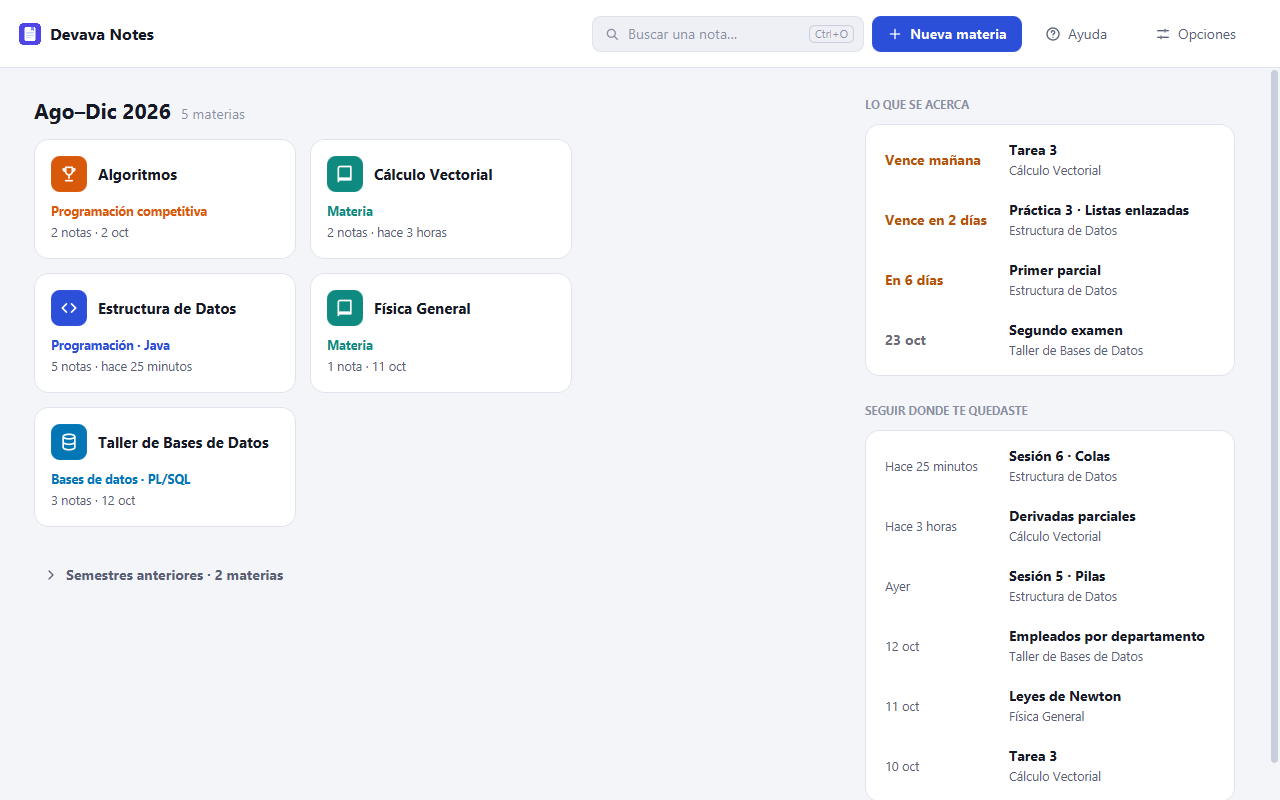
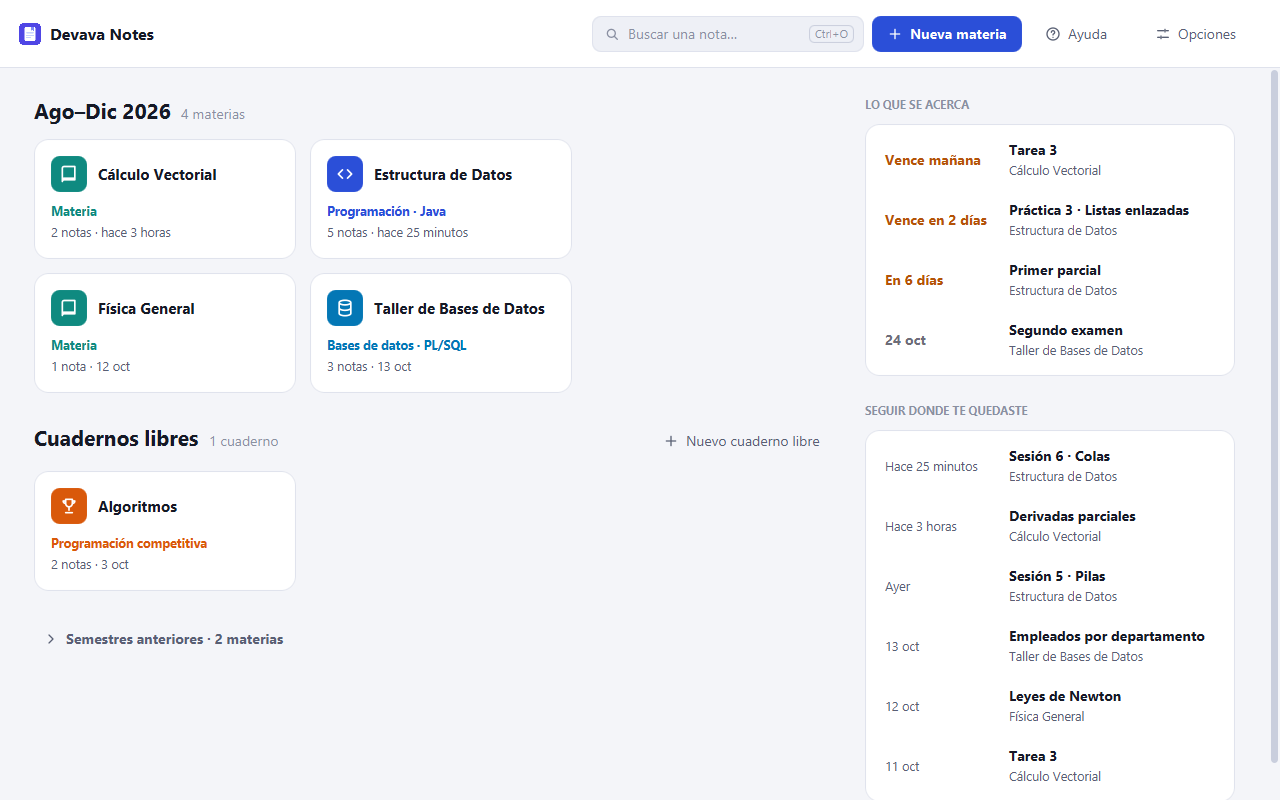
Devava Notes 2.1.0: the changelog, the README and its screenshots
- The 2.1.0 section of the changelog: tables, drawings, free notebooks apart from the subjects,
  and the cursor where a note is clicked.
- The README: tables and drawings in Escribir, the free notebooks in Tipos de cuaderno, the
  shortcuts of a table, the drawings' files, and new screenshots of Home, a table of Taller de
  Bases de Datos and a drawing (taken by the smoke tests).
- Version 2.1.0.

diff --git a/src/test/java/com/devavaxp/notes/AppSmokeTest.java b/src/test/java/com/devavaxp/notes/AppSmokeTest.java
@@ -135,6 +135,14 @@ class AppSmokeTest {
                 @Override String sonido() { return "¡Guau!"; }
             }""";
 
+    private static final String COLUMNS = """
+            | Columna | Tipo | Restricciones |
+            | --- | --- | --- |
+            | employee_id | NUMBER(6) | PRIMARY KEY |
+            | first_name | VARCHAR2(20) |  |
+            | hire_date | DATE | DEFAULT SYSDATE NOT NULL |
+            | department_id | NUMBER(4) | REFERENCES departments |""";
+
     private static final String CREATE = """
             CREATE TABLE employees (
               employee_id   NUMBER(6) PRIMARY KEY,
@@ -764,7 +772,8 @@ class AppSmokeTest {
         Files.writeString(exercise, "---\nkind: exercise\ntopics: [consultas/joins, consultas/group by]\nlevel: Medium\nstatus: Solved\ndate: "
                 + today + "\n---\n## Enunciado\n\n¿Cuántos empleados trabajan en cada departamento, incluidos los que no tienen ninguno?\n\n"
                 + "## Consulta\n\n```plsql\n" + QUERY + "\n```\n");
-        Files.writeString(db.resolve("EMPLOYEES.md"), "---\nkind: table\n---\n## Creación\n\n```plsql\n" + CREATE + "\n```\n");
+        Path employees = db.resolve("EMPLOYEES.md");
+        Files.writeString(employees, "---\nkind: table\n---\n## Columnas\n\n" + COLUMNS + "\n\n## Creación\n\n```plsql\n" + CREATE + "\n```\n");
         Files.writeString(db.resolve("Segundo examen.md"), "---\nkind: exam\ndate: " + today.plusDays(9) + "\ntopics: [plsql/cursores]\n---\n");
         Path partial = calculus.resolve("Derivadas parciales.md");
         Files.writeString(partial, PARTIAL.formatted(today.minusDays(1)));
@@ -800,6 +809,13 @@ class AppSmokeTest {
         dialogShot(stage, "r1-change-type", () -> menuItem(stage, "Cambiar tipo…").fire(), "");
         dialogShot(stage, "r2-language", () -> menuItem(stage, "Lenguaje del código…").fire(), "");
         dialogShot(stage, "r3-period", () -> menuItem(stage, "Cambiar periodo…").fire(), "");
+        fx(() -> run(() -> {
+            app.openNotebook(db);
+            app.browser.choose("Tablas", null);
+            app.openNote(employees);
+        }));
+        waitFor("the table's grid", () -> fx(() -> ((Number) engine.executeScript("document.querySelectorAll('.cm-table tbody tr').length")).intValue() == 5));
+        shot(stage, "readme-tabla");
         fx(() -> run(() -> {
             app.setDark(true);
             app.openNotebook(db);
@@ -1009,11 +1025,11 @@ class AppSmokeTest {
         shot(drawing.stage, "x1-drawing-new");
         fx(() -> draw.executeScript("""
                 drawingAPI.updateScene({elements: drawingElements([
-                    {type: 'rectangle', x: 80, y: 80, width: 220, height: 110, label: {text: 'Pila'}},
-                    {type: 'arrow', x: 310, y: 135, width: 160, height: 0},
-                    {type: 'ellipse', x: 480, y: 80, width: 200, height: 110, label: {text: 'Cola'}}]), captureUpdate: 'IMMEDIATELY'})"""));
+                    {type: 'rectangle', x: 80, y: 190, width: 220, height: 110, label: {text: 'Pila'}},
+                    {type: 'arrow', x: 310, y: 245, width: 160, height: 0},
+                    {type: 'ellipse', x: 480, y: 190, width: 200, height: 110, label: {text: 'Cola'}}]), captureUpdate: 'IMMEDIATELY'})"""));
         Thread.sleep(600);
-        shot(drawing.stage, "x2-drawing");
+        shot(drawing.stage, "readme-dibujo");
         String count = "drawingAPI.getSceneElements().length", images = "drawingAPI.getSceneElements().filter(e => e.type === 'image').length";
         int drawn = ((Number) fx(() -> draw.executeScript(count))).intValue();
 
@@ -1119,7 +1135,7 @@ class AppSmokeTest {
         key(again.view, KeyCode.DELETE);   // with no click first
         assertEquals(0, ((Number) fx(() -> redraw.executeScript(images))).intValue(), "the pictures deleted with Supr");
         fx(() -> redraw.executeScript("drawingAPI.updateScene({elements: [...drawingAPI.getSceneElements(), "
-                + "...drawingElements([{type: 'text', x: 80, y: 230, text: 'LIFO y FIFO'}, {type: 'text', x: 80, y: 280, text: '¿Último en entrar?', fontFamily: 3}])]})"));
+                + "...drawingElements([{type: 'text', x: 80, y: 340, text: 'LIFO y FIFO'}, {type: 'text', x: 80, y: 390, text: '¿Último en entrar?', fontFamily: 3}])]})"));
         assertEquals(Boolean.TRUE, fx(() -> redraw.executeScript("""
                 drawingAPI.getSceneElements().filter(e => e.type === 'text' && !e.containerId).every(e => {
                     const c = document.createElement('canvas').getContext('2d');

diff --git a/README.md b/README.md
@@ -12,8 +12,9 @@ Cada materia del semestre tiene su cuaderno, que sabe lo que lleva: tus **apunte
 las **tareas y prácticas** con su fecha de entrega, los **exámenes**, y en las materias de
 programación, **sesiones de código** con el código y lo que imprimió. Las materias salen de la
 retícula de ISC: escribes «estruc» y la app propone *Estructura de Datos*, de Programación y en
-Java. Toda la app está en español, y tus notas son archivos de texto en tu computadora: sin
-cuentas, sin nube y sin instalar Java.
+Java. Tus notas llevan **tablas** que se escriben como en Excel y **dibujos** hechos sin salir
+de la app. Toda la app está en español, y tus notas son archivos de texto en tu computadora:
+sin cuentas, sin nube y sin instalar Java.
 
 | Inicio | Una sesión de código |
 | --- | --- |
@@ -26,6 +27,10 @@ cuentas, sin nube y sin instalar Java.
 | Una materia, en vista previa | Bases de datos, en tema oscuro |
 | --- | --- |
 | ![Apuntes de Cálculo Vectorial con sus fórmulas](docs/screenshots/materia.png) | ![Un ejercicio de Taller de Bases de Datos con su consulta en PL/SQL](docs/screenshots/bases-de-datos-oscuro.png) |
+
+| Una tabla, escrita en sus celdas | Un dibujo |
+| --- | --- |
+| ![Las columnas de la tabla EMPLOYEES de Taller de Bases de Datos, como cuadrícula](docs/screenshots/tabla.png) | ![Una pila y una cola dibujadas en Excalidraw, dentro de la app](docs/screenshots/dibujo.png) |
 
 ## Descarga
 
@@ -46,7 +51,7 @@ Las versiones para macOS y Linux vienen después.
    agrega más con **Nueva materia**.
 2. **Escribe.** **Nueva nota** (`Ctrl+N`) ofrece lo que lleva cada materia: un apunte, una
    sesión de código, una tarea o un examen. La barra sobre la nota pone negritas, listas,
-   fórmulas, imágenes y bloques de código con un clic.
+   tablas, fórmulas, imágenes, dibujos y bloques de código con un clic.
 3. **Llena sus datos** arriba del texto (la entrega de una tarea, los temas de un examen):
    Inicio te dice lo que se acerca, y lo atrasado sale en rojo.
 
@@ -67,7 +72,7 @@ información → Ejecutar de todas formas** la abre, y Windows lo recuerda. GitH
 compila cada versión desde el código de su etiqueta, así que el registro de la compilación
 muestra exactamente qué lleva cada archivo, y cada versión publica sus sumas SHA-256.
 
-## Tipos de materia
+## Tipos de cuaderno
 
 Cada tipo trae sus datos (arriba de la nota), sus plantillas para las notas nuevas y sus vistas
 (a la izquierda). Cada vista muestra sus notas como lista o como tabla, con columnas para
@@ -95,8 +100,10 @@ ordenar.
   fijadas.
 
 En Inicio, las materias se agrupan por periodo escolar (*Ene–Jun*, *Verano*, *Ago–Dic*) y los
-semestres anteriores quedan plegados; *Cambiar periodo…* mueve una materia a otro. **Lo que se
-acerca** junta las entregas y los exámenes de todas tus materias.
+semestres anteriores quedan plegados; *Cambiar periodo…* mueve una materia a otro. Libre y
+Programación competitiva son **cuadernos libres**: no tienen semestre, van en su propia sección
+y se crean con **Nuevo cuaderno libre**. **Lo que se acerca** junta las entregas y los exámenes
+de todas tus materias.
 
 ## Escribir
 
@@ -108,6 +115,15 @@ Las notas son Markdown, pero no hace falta saberlo: la barra sobre la nota lo es
   con colores y con números de línea. Un bloque de **Salida** guarda lo que imprimió el
   programa, y **+ Bloque de código** agrega otro en el lenguaje de la materia. Quien sabe
   Markdown puede escribir ```` ```java ```` y Enter.
+- **Tablas** como cuadrícula: se escribe en sus celdas, **Tab** pasa a la siguiente y **Enter**
+  a la de abajo (al final agrega una fila). Créala con **Tabla** en la barra (eliges columnas y
+  filas), pegando celdas de Excel, Google Sheets o SQL Developer, o escribiendo su encabezado
+  (`| Nombre | Edad |`) y Enter. Arriba de cada una: **+ Fila**, **+ Columna**, **⋯** para
+  quitar o alinear, **Copiar** (se pega con sus celdas en Word, Excel o Google Docs) y
+  **Quitar**.
+- **Dibujos** con Excalidraw, sin salir de la app: **Dibujo** en la barra abre una ventana para
+  dibujar diagramas y esquemas, con imágenes y capturas para dibujar encima, Mermaid y una
+  biblioteca de figuras. Un clic en el dibujo lo vuelve a abrir.
 - **Fórmulas**: `$e^{i\pi} + 1 = 0$` en el texto, o en su propia línea entre `$$`, dibujadas
   por KaTeX.
 - **Enlaces** entre notas: escribe `[[` y elige su título. `Ctrl+clic` sigue un enlace al
@@ -118,7 +134,7 @@ Las notas son Markdown, pero no hace falta saberlo: la barra sobre la nota lo es
   archivo a la nota; se guarda en la carpeta `attachments` de la materia.
 - **Temas sugeridos**: en las materias de la retícula, el menú ▾ de *Temas* propone los de la
   materia (herencia y polimorfismo en POO, pilas y colas en Estructura de Datos…).
-- Tablas, listas de pendientes (`- [ ]`) y tachado, como en GitHub.
+- Listas de pendientes (`- [ ]`) y tachado, como en GitHub.
 
 ## Atajos de teclado
 
@@ -130,7 +146,8 @@ Las notas son Markdown, pero no hace falta saberlo: la barra sobre la nota lo es
 | `Ctrl+E` | Pasar entre Editar y Vista previa |
 | `Ctrl+F` | Buscar y reemplazar en la nota |
 | `Ctrl+B`, `Ctrl+I` | Negrita, cursiva |
-| `Ctrl+V` | Pegar texto, o una imagen |
+| `Ctrl+V` | Pegar texto, una imagen, o celdas de Excel como tabla |
+| `Tab`, `Enter` | En una tabla: la celda siguiente, la de abajo |
 | `[[` | Enlazar otra nota, con sus títulos sugeridos |
 | `Ctrl+clic` | Seguir el `[[enlace]]` bajo el ratón, al escribir |
 | `Ctrl+Z` / `Ctrl+Y` | Deshacer / rehacer |
@@ -138,16 +155,21 @@ Las notas son Markdown, pero no hace falta saberlo: la barra sobre la nota lo es
 ## Dónde quedan tus notas
 
 Todo queda en una carpeta `Devava Notes` dentro de tu carpeta Documentos (también si OneDrive
-la sincroniza). Cada materia es una carpeta, y cada nota un archivo `.md` con su título:
+la sincroniza). Cada materia o cuaderno es una carpeta, y cada nota un archivo `.md` con su
+título:
 
 ```
 Documentos\Devava Notes\
-├── settings.json                 el tema
+├── settings.json                        el tema
+├── Biblioteca de dibujos.excalidrawlib  las figuras que guardas para tus dibujos
 └── Estructura de Datos\
-    ├── .notebook.json            su tipo, su lenguaje, su periodo y su materia en la retícula
-    ├── attachments\              las imágenes de sus notas
+    ├── .notebook.json                   su tipo, su lenguaje, su periodo y su materia en la retícula
+    ├── attachments\                     las imágenes y los dibujos de sus notas
     └── Sesión 5 · Pilas.md
 ```
+
+Un dibujo es un PNG (`Dibujo ….excalidraw.png`) que lleva adentro lo dibujado: cualquier visor
+de imágenes lo abre, y la app lo vuelve a abrir para seguir dibujando.
 
 Los datos de una nota son su encabezado YAML, así que los archivos se abren en cualquier editor
 de Markdown (Obsidian incluido), y las notas escritas en otro lado aparecen en la app. Sus
@@ -171,10 +193,10 @@ Deque<Character> pila = new ArrayDeque<>();
 - Cada cambio se guarda solo, un momento después, y cada archivo se escribe completo o no se
   escribe: un apagón nunca deja media nota.
 - Borrar una nota o una materia la manda a la Papelera de reciclaje.
-- Las carpetas que crees a mano son materias de tipo Libre.
+- Las carpetas que crees a mano son cuadernos libres.
 - **Para compartir una materia** (tus apuntes con tus compañeros, por ejemplo): en su menú,
-  *Exportar como ZIP…*. Quien recibe el ZIP la agrega con *Opciones → Importar una materia
-  (ZIP)…* en Inicio, y se abre tal como estaba, con su tipo y sus imágenes.
+  *Exportar como ZIP…*. Quien recibe el ZIP la agrega con *Opciones → Importar un cuaderno
+  (ZIP)…* en Inicio, y se abre tal como estaba, con su tipo, sus imágenes y sus dibujos.
 - Para guardar las notas en otro lugar, abre la app con `-Dnotes.home=<carpeta>` (desde el
   código) o define la variable de entorno `JAVA_TOOL_OPTIONS=-Dnotes.home=<carpeta>` (la app
   instalada).
@@ -185,7 +207,7 @@ Deque<Character> pila = new ArrayDeque<>();
 
 Java 21, JavaFX 21 (con WebView), Maven (con su wrapper), Gson y commonmark-java. El editor es
 CodeMirror 6, con KaTeX para las fórmulas, empaquetado por esbuild en un solo script que carga
-el WebView. Las pruebas usan JUnit 5; el compilador corre con `-Xlint:all` y la compilación
+el WebView; la ventana de dibujo es Excalidraw (con React), empaquetado aparte en `draw.js`. Las pruebas usan JUnit 5; el compilador corre con `-Xlint:all` y la compilación
 debe quedar sin advertencias. El código y sus comentarios están en inglés; lo que ve el
 estudiante, en español.
 
@@ -195,9 +217,10 @@ estudiante, en español.
 ./mvnw verify -Dsmoke=true         # también abre la ventana real y guarda capturas en target/smoke
 ```
 
-El código del editor está en [`editor/main.js`](editor/main.js). Después de cambiarlo, vuelve a
-empaquetarlo (con Node.js 20 o más nuevo) y sube el resultado,
-`src/main/resources/com/devavaxp/notes/editor.js`:
+El código del editor está en [`editor/main.js`](editor/main.js), y el de la ventana de dibujo en
+[`editor/draw.js`](editor/draw.js). Después de cambiarlos, vuelve a empaquetarlos (con Node.js
+20 o más nuevo) y sube el resultado, `editor.js`, `draw.js`, `draw.css` y las fuentes de
+`src/main/resources/com/devavaxp/notes/`:
 
 ```bash
 cd editor
@@ -232,16 +255,16 @@ español, que necesita el [WiX Toolset 3.x](https://github.com/wixtoolset/wix3/r
 
 GitHub Actions compila, prueba y publica cada versión
 ([`.github/workflows/release.yml`](.github/workflows/release.yml)), así que cada descarga sale
-de una compilación limpia de un commit etiquetado. Para publicar, por ejemplo, la versión 2.1.0:
+de una compilación limpia de un commit etiquetado. Para publicar, por ejemplo, la versión 2.2.0:
 
-1. Pon `<version>2.1.0</version>` en `pom.xml`.
-2. Agrega una sección `## [2.1.0] - <fecha>` a [`CHANGELOG.md`](CHANGELOG.md) (es el «Qué hay
+1. Pon `<version>2.2.0</version>` en `pom.xml`.
+2. Agrega una sección `## [2.2.0] - <fecha>` a [`CHANGELOG.md`](CHANGELOG.md) (es el «Qué hay
    de nuevo» de la versión) y su enlace al final del archivo.
 3. Sube los cambios, y luego la etiqueta:
 
    ```bash
-   git tag v2.1.0
-   git push origin v2.1.0
+   git tag v2.2.0
+   git push origin v2.2.0
    ```
 
 Correr el workflow a mano desde la pestaña *Actions* es un ensayo: compila y prueba todo y
@@ -249,6 +272,7 @@ guarda los archivos como artefactos, sin publicar nada.
 
 ## Licencia
 
-[MIT](LICENSE) © 2026 devava XP Studios. La app incluye CodeMirror y KaTeX (MIT),
-commonmark-java (BSD-2-Clause), Gson (Apache-2.0) y un runtime de Java con JavaFX (GPL-2.0 con
-la Classpath Exception); ver [THIRD-PARTY-NOTICES.md](THIRD-PARTY-NOTICES.md).
+[MIT](LICENSE) © 2026 devava XP Studios. La app incluye CodeMirror, KaTeX, Excalidraw, React y
+Mermaid (MIT) con sus librerías, las fuentes de Excalidraw (SIL OFL 1.1), commonmark-java
+(BSD-2-Clause), Gson (Apache-2.0) y un runtime de Java con JavaFX (GPL-2.0 con la Classpath
+Exception); ver [THIRD-PARTY-NOTICES.md](THIRD-PARTY-NOTICES.md).

diff --git a/CHANGELOG.md b/CHANGELOG.md
@@ -5,6 +5,49 @@ Aquí están los cambios importantes de cada versión de Devava Notes. El format
 [versionado semántico](https://semver.org/lang/es/). Cada versión en GitHub toma su «Qué hay de
 nuevo» de la sección que le toca en este archivo.
 
+## [2.1.0] - 2026-10-15
+
+Tablas que se escriben en sus celdas, dibujos dentro de la app, y los cuadernos libres aparte de
+las materias.
+
+### Agregado
+- **Tablas** que se ven y se escriben como cuadrícula, igual que una hoja de cálculo: **Tab**
+  pasa a la celda siguiente, **Enter** a la de abajo (al final agrega una fila, y en una fila
+  nueva vacía sale de la tabla), y las flechas van de celda en celda y entran o salen de la
+  tabla. Arriba de cada una, **+ Fila**, **+ Columna**, un menú **⋯** para quitar una fila o
+  una columna o alinearla, **Copiar** (se pega con sus celdas en Word, Excel o Google Docs) y
+  **Quitar**. La nota guarda una tabla de Markdown normal, que otros programas leen.
+- Tres maneras de **crear una tabla**: **Tabla** en la barra de formato, con cuadros como en
+  Word para elegir columnas y filas; pegar celdas de Excel, Google Sheets, SQL Developer o una
+  página (`Ctrl+Z` deja lo pegado como texto); o escribir el encabezado, como
+  `| Paso | i | suma |`, y dar Enter. Las celdas pegadas dentro de una tabla la llenan desde
+  la celda donde estás.
+- **Dibujos** con Excalidraw, en español y en una ventana de la app: **Dibujo** en la barra
+  de formato, figuras, flechas y texto a mano, imágenes (**Imagen** o `Ctrl+V` de una
+  captura) para dibujar sobre ellas, **Mermaid a Excalidraw** para convertir el texto de un
+  diagrama, y una **biblioteca** de figuras que comparten todos tus dibujos. **Insertar en la
+  nota** lo guarda en `attachments`; un clic en el dibujo (o *Editar dibujo* al escribir) lo
+  vuelve a abrir. En el tema oscuro, el dibujo también se oscurece.
+- **Cuadernos libres** en Inicio, aparte de las materias, y **Nuevo cuaderno libre** para
+  crear uno (Libre o Programación competitiva).
+
+### Cambiado
+- Inicio agrupa y cuenta por periodo **solo las materias**: un periodo ya no cuenta como
+  materias tus cuadernos libres. *Nueva materia* y la primera vez ofrecen solo materias;
+  Residencia Profesional, Servicio Social y Actividades Complementarias son cuadernos libres.
+- Los `#` de un título cuelgan en el margen, así que su texto empieza donde el de sus
+  párrafos; las listas se sangran por nivel, y lo que sigue de un elemento empieza donde su
+  texto.
+- Un cuaderno libre ya no tiene *Cambiar periodo…*, y *Opciones* dice *Importar un cuaderno
+  (ZIP)…*.
+
+### Corregido
+- Un clic en una nota pone el cursor donde se hizo, también debajo de bloques de código,
+  títulos e imágenes, y ↑ y ↓ pasan por cada línea sin saltarse ninguna.
+- Enter y Esc en el buscador de lenguajes de un bloque de código.
+- Vista previa respeta la alineación de las columnas de una tabla (`:---:` no centraba), y una
+  tabla muy ancha se desplaza de lado en vez de salirse de la página.
+
 ## [2.0.0] - 2026-10-14
 
 La versión hecha para los estudiantes de Ingeniería en Sistemas Computacionales del Instituto
@@ -135,6 +178,7 @@ La primera versión de Devava Notes, para Windows.
 - Un instalador para Windows (por usuario, sin permisos de administrador) y un ZIP portable; no
   hay que instalar Java.
 
+[2.1.0]: https://github.com/HideOnVava/devava-notes/releases/tag/v2.1.0
 [2.0.0]: https://github.com/HideOnVava/devava-notes/releases/tag/v2.0.0
 [1.2.0]: https://github.com/HideOnVava/devava-notes/releases/tag/v1.2.0
 [1.1.0]: https://github.com/HideOnVava/devava-notes/releases/tag/v1.1.0
